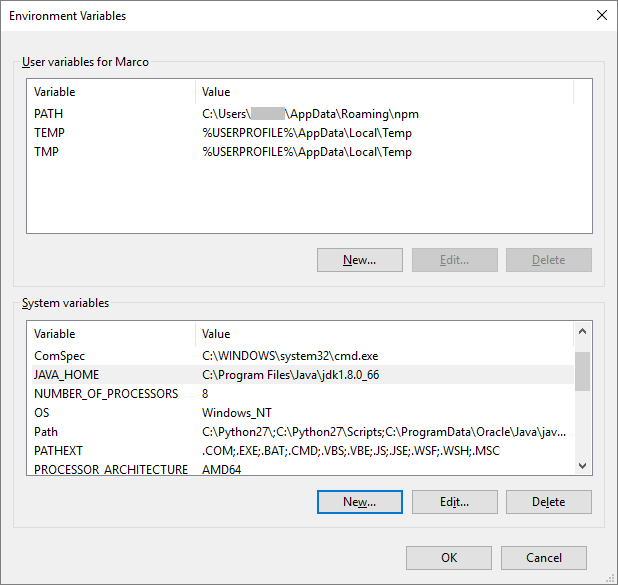
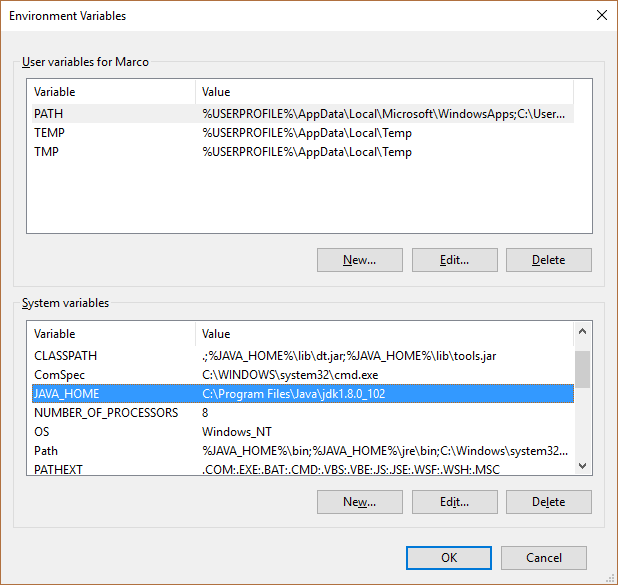
Windows configuration updated

diff --git a/JavaWindowsConfiguration.md b/JavaWindowsConfiguration.md
@@ -7,7 +7,7 @@ All you need is the standard version of Java -- **Java SE**, but it has two dist
   - If you need to first compile source codes and then run them, you'll need JDK -- it contains both JRE and compiler.
     This is the distribution we need.
 
-So download JDK (Now the latest is Java 8: Java SE 8u66) and install it --
+So download JDK (Now the latest is Java 8: Java SE 8u102, as of Sept. 22, 2016) and install it --
 http://www.oracle.com/technetwork/java/javase/downloads/index.html.
 
 ## You need setup environment variables
@@ -21,7 +21,7 @@ Click *New...* to add the following variables:
 
   Name        |  Value                                               |  Note
 :------------ | :--------------------------------------------------- | :----------------------------------
-  `JAVA_HOME` | `C:\Program Files\Java\jdk1.8.0_66`                  | Use your actual installation path
+  `JAVA_HOME` | `C:\Program Files\Java\jdk1.8.0_102`                 | Use your actual installation path
   `CLASSPATH` | `.;%JAVA_HOME%\lib\dt.jar;%JAVA_HOME%\lib\tools.jar` | Don't miss the first character `.`
 
 Next, find `PATH` variable and edit it: append the following to it
